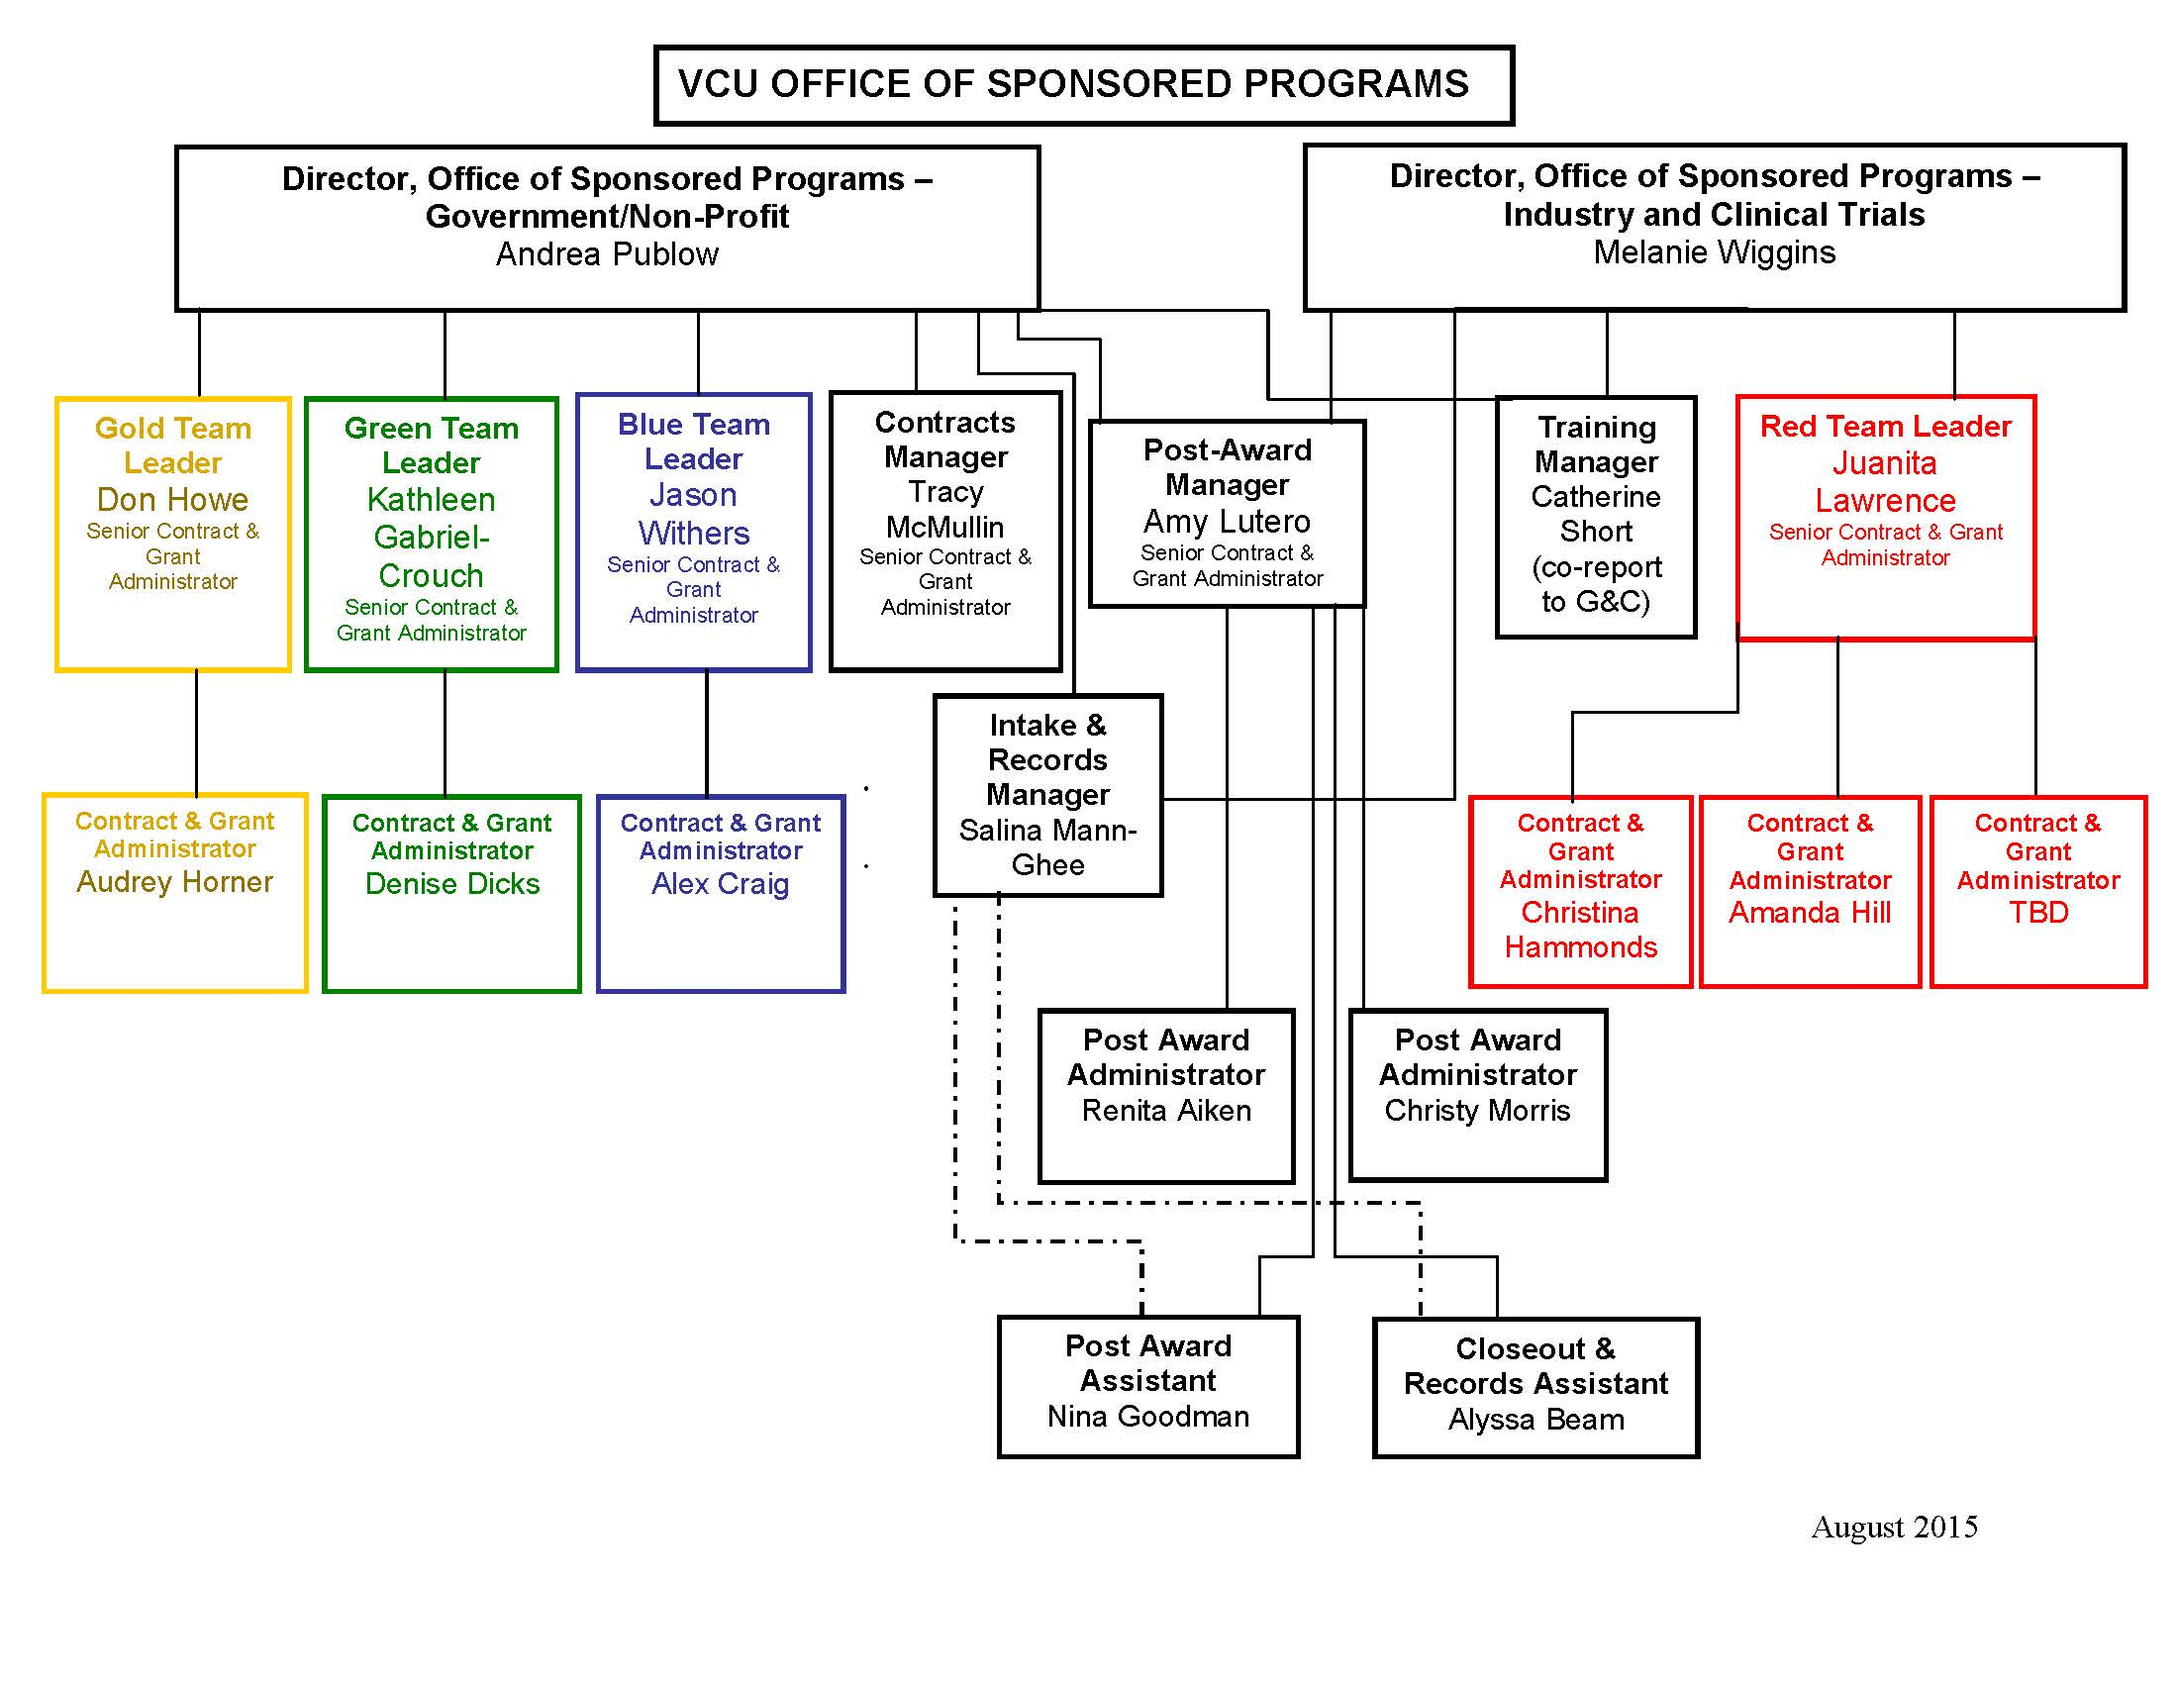
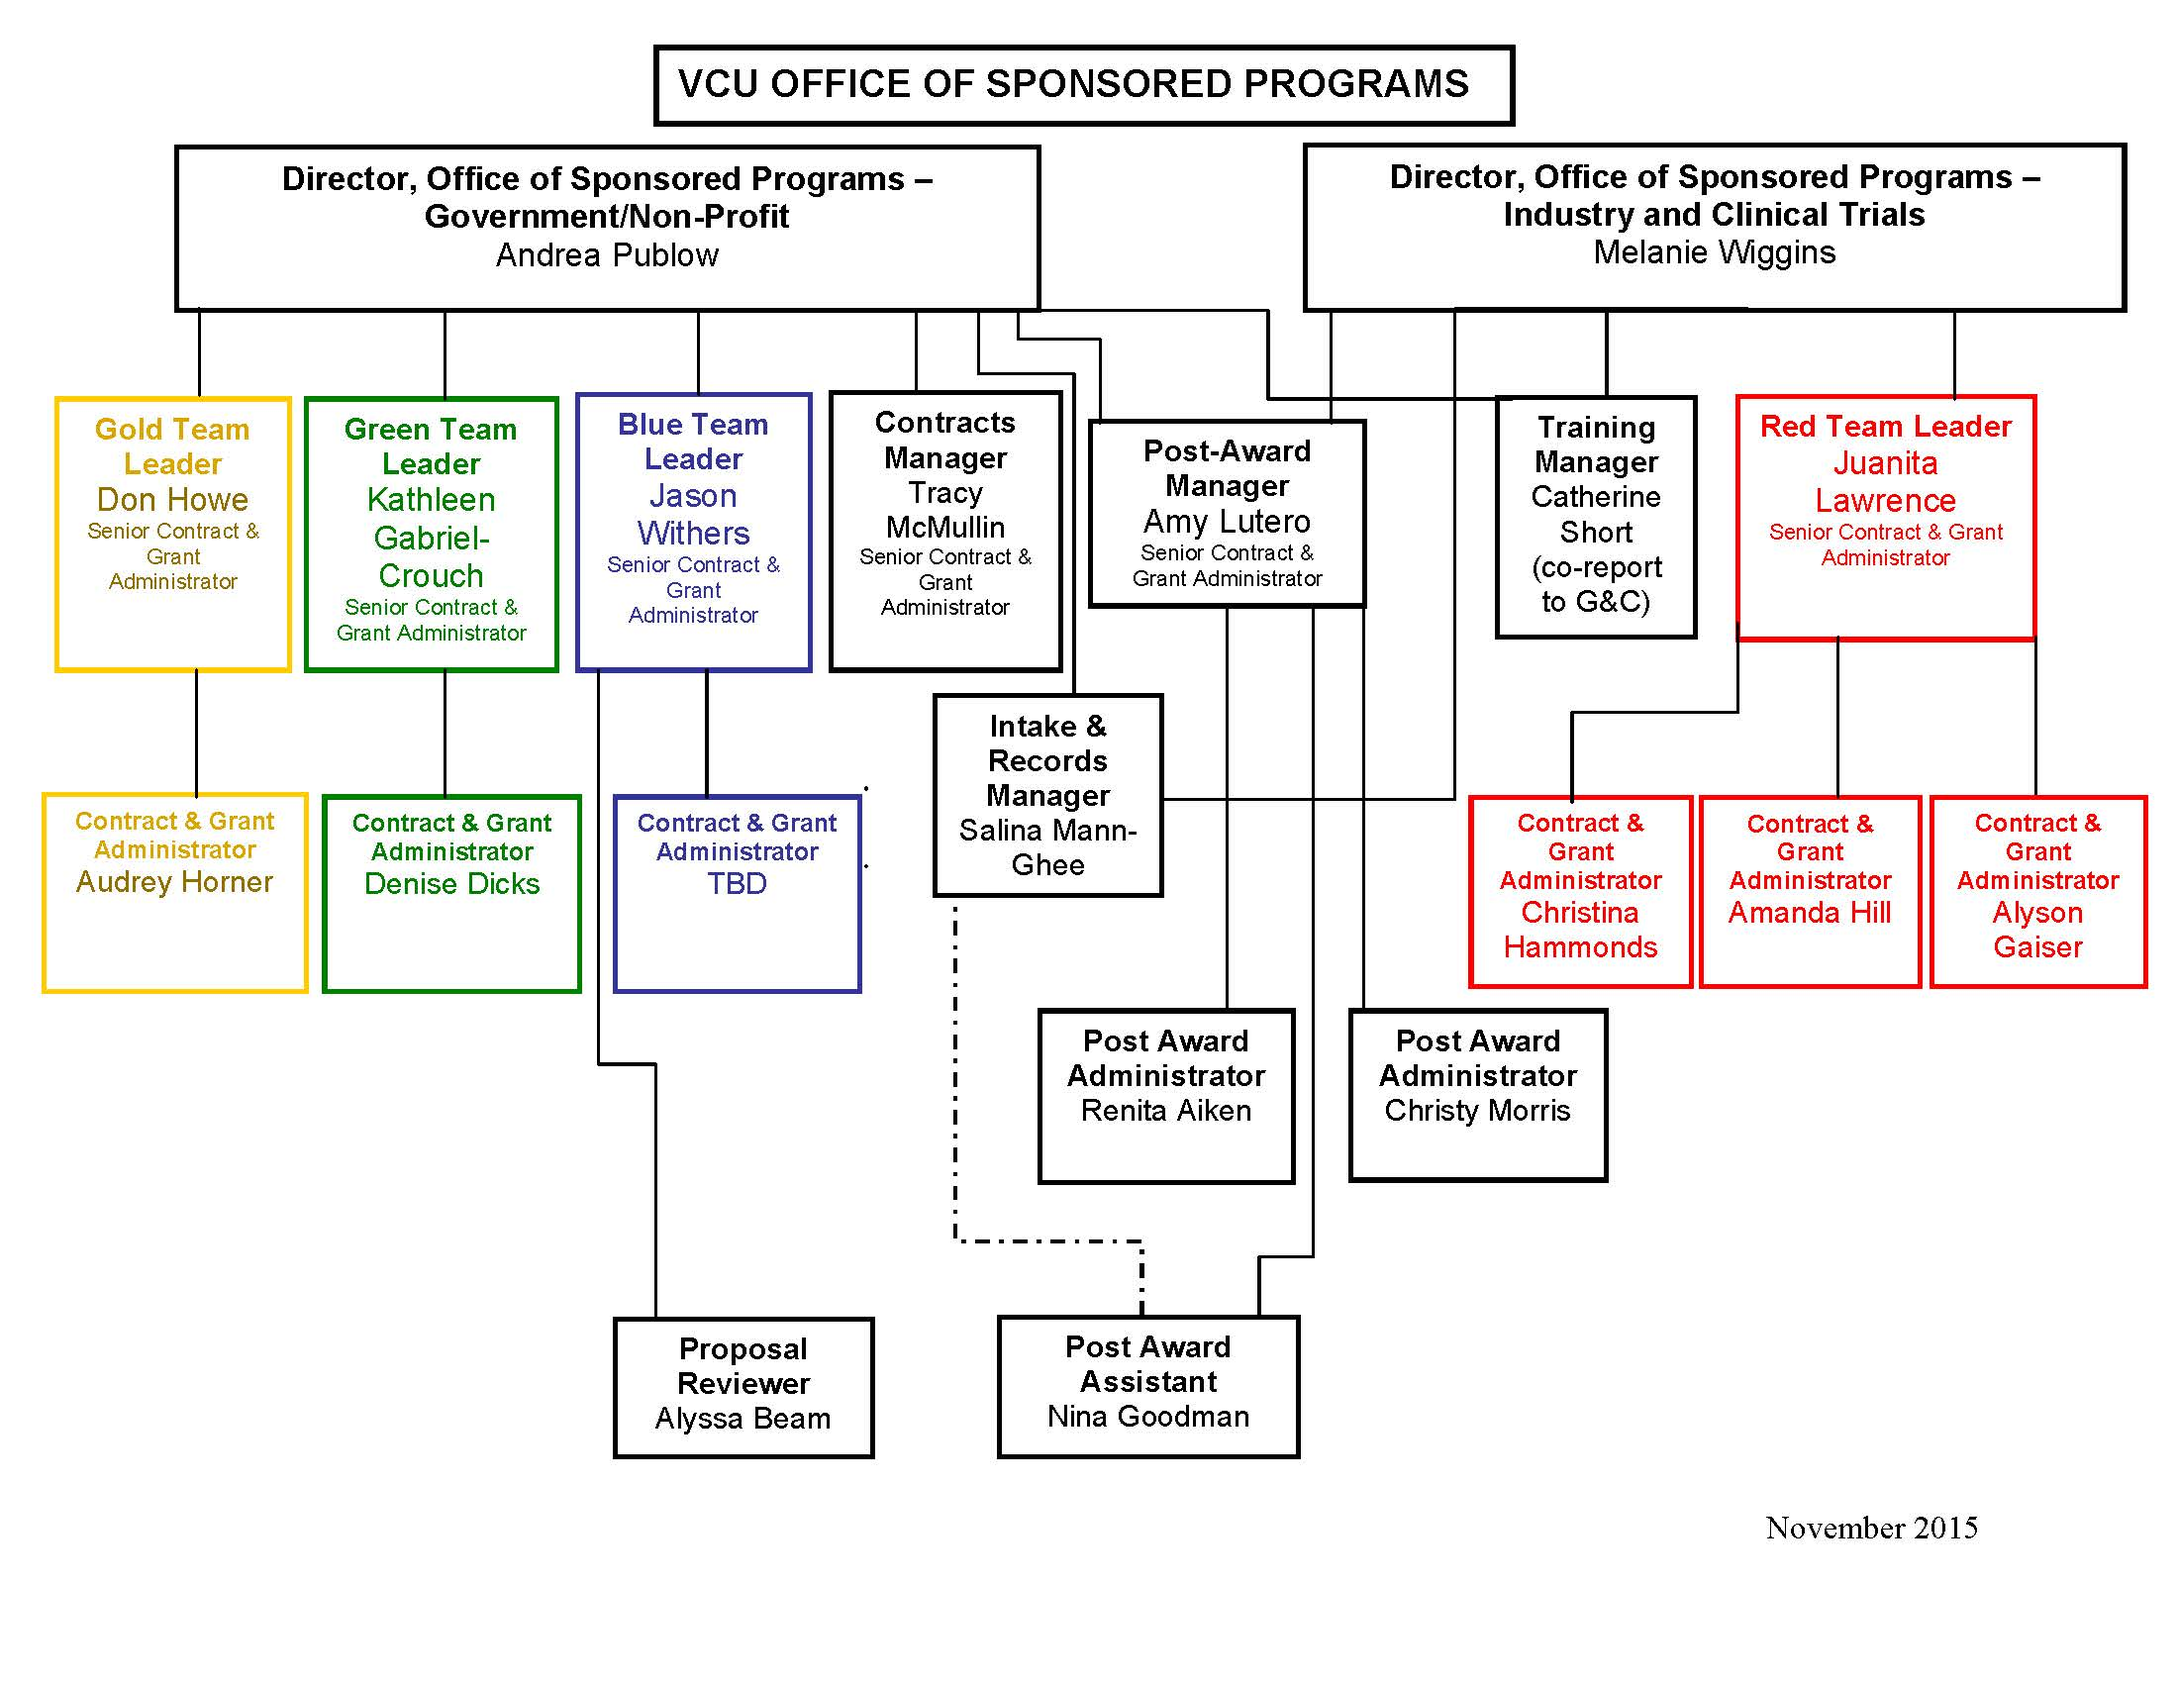
OSP Contact Info Updates

diff --git a/vpr/staff.htm b/vpr/staff.htm
@@ -319,14 +319,6 @@
                                     <td>828-6772<br/>
                                     <a href="mailto:ospaward@vcu.edu">ospaward@vcu.edu</a></td>
                               	</tr>
-
-                                <tr>
-                                	<td><h4>Alyssa Beam</h4>
-                                    Closeout and Records Assistant</td>
-                                    
-                                    <td>828-6772<br/>
-                                    <a href="mailto:ospaward@vcu.edu">ospaward@vcu.edu</a></td>
-                              	</tr>
                                 
                                 <tr>
                                 	<td colspan="2" style="padding-bottom:0; background-color:#ccc;"><h4>Government/NonProfit</h4></td>
@@ -354,9 +346,9 @@
                               	</tr>
                                 
                                 <tr>
-                                	<td><h4>Alex Craig</h4>
+                                	<td><h4>Alyssa Beam</h4>
                                     Blue Team Reviewer, Government/Non-profit<br/>
-                                    Contract &amp; Grant Administrator</td>
+                                    Proposal Reviewer</td>
                            			
                                     <td>828-6772<br/>
                                     <a href="mailto:ospblue@vcu.edu">ospblue@vcu.edu</a></td>
@@ -430,7 +422,7 @@
                               	</tr>
                                 
                                 <tr>
-                                	<td><h4>TBD</h4>
+                                	<td><h4>Alyson Gaiser</h4>
                                     Red Team Reviewer, Industry<br/>
                                     Contract &amp; Grant Administrator</td>
                                     
@@ -959,7 +951,7 @@ If you would like to be considered for any of our job openings, please visit <a 
   		<ul>
     		<li><a href="http://www.vcu.edu" target="_blank">Virginia Commonwealth University</a> | <a href="http://www.research.vcu.edu/" target="_blank">Office of Research and Innovation</a></li>
             <li>800 East Leigh Street  PO Box 980568 Richmond, VA 23298</li>
-            <li><a href="mailto:erahelp@vcu.edu?subject=Website%20Comments" target="_blank">Contact Us</a> | Updated: <!-- #BeginDate format:Am3 -->11/17/2015<!-- #EndDate --> | <a href="../sitemap.htm">Site Map</a> | <a href="http://ts.vcu.edu/cgi-bin/posh.pl">View text-only version</a></li>
+            <li><a href="mailto:erahelp@vcu.edu?subject=Website%20Comments" target="_blank">Contact Us</a> | Updated: <!-- #BeginDate format:Am3 -->11/20/2015<!-- #EndDate --> | <a href="../sitemap.htm">Site Map</a> | <a href="http://ts.vcu.edu/cgi-bin/posh.pl">View text-only version</a></li>
      	</ul>
 </div><!--end #signature-->
 
